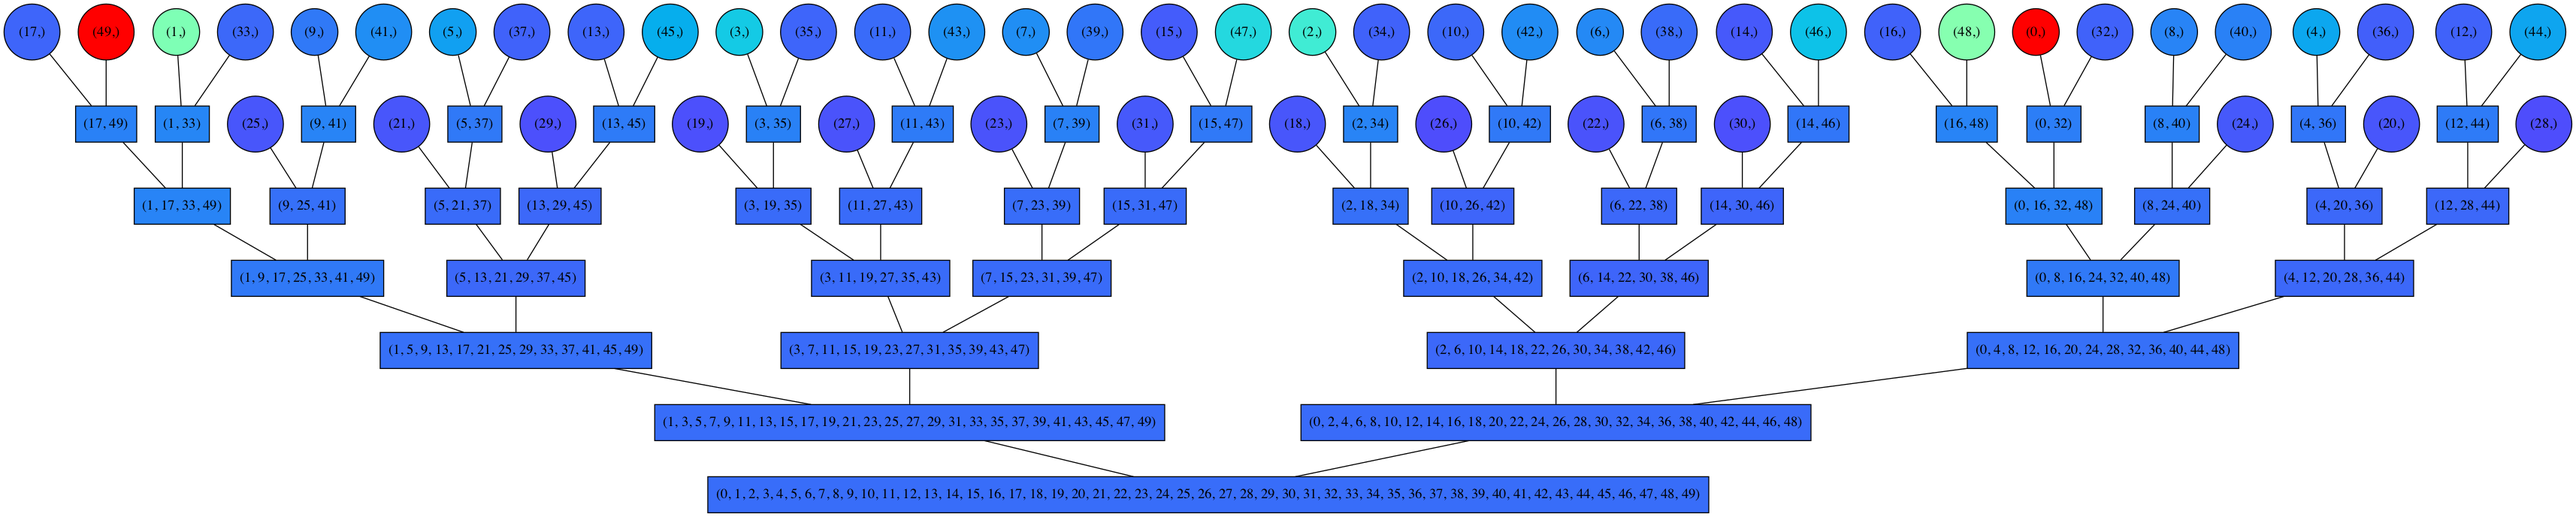
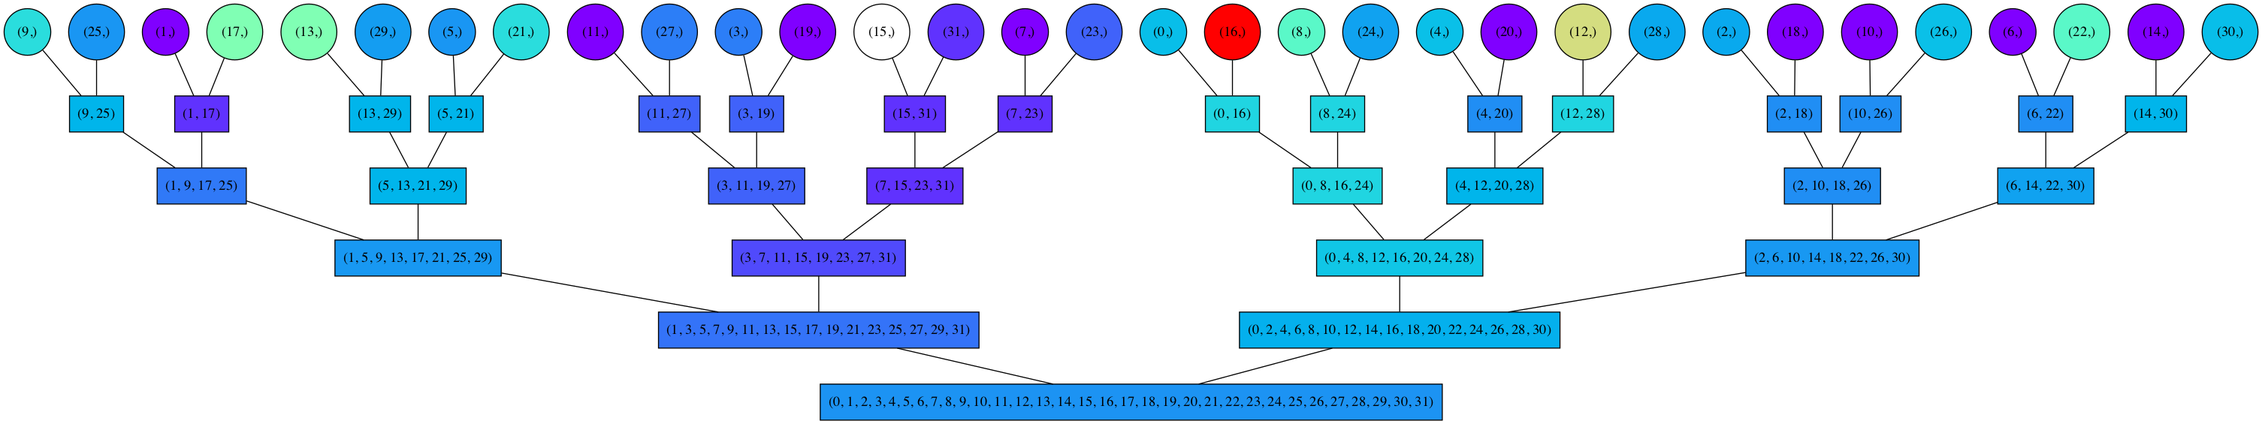
message

diff --git a/visualize_heuristic_output.py b/visualize_heuristic_output.py
@@ -1,10 +1,11 @@
-import static_opt_heuristics as h
+import static_opt_heuristics as hr
 import static_optimal_search as st
 import math, operator
 import colorsys
 import matplotlib.colors as colors
 import matplotlib.cm as cm
 import pydot
+import random
 """
 Processing demand graph/skip graphs to visualize their
 properties
@@ -61,6 +62,24 @@ def middleman_hop_frequencies(D, SG):
     return freqs
 
 
+def epl_contribution_freqs(D, SG):
+    """
+    given a  skip graph (tupled) on n nodes,
+    returns a dict f where f[k] is the expected path length for all paths
+    that start at k or end at k.
+    """
+    d = D.copy()
+    #really_safe_normalise_in_place(d)
+
+    nodes = st.SG_nodes(SG)
+    freqs = {n : 0 for n in nodes}
+    for u in nodes:
+        for v in nodes:
+            cost = st.SG_search_cost(SG, u, v)*d[(u,v)]
+            freqs[u] += cost
+    return freqs
+
+
 
 def colormap(val, cmap = cm.rainbow):
     """
@@ -70,24 +89,100 @@ def colormap(val, cmap = cm.rainbow):
     r,g,b = cmap(val)[:3]
     return colors.rgb2hex((r,g,b))
 
-def color_for_LL(LL, fmap, lmap):
+def color_for_LL_fmap(LL, fmap, lmap):
     """
     LL : a tuple of skip graph nodes (as in tupled SG)
-    fmap : middleman hop frequences for skip graph
-    lmap : middleman hop frequencies for path graph (ground)
+    fmap : frequences for skip graph
+    lmap : frequencies for path graph (ground)
 
-    returns color for the LL
+    returns color for the LL based on fmaps
     """
     fp = {k:fmap[k] for k in fmap if k in LL}
     lp = {k:lmap[k] for k in fmap if k in LL}
     val = sum(fp.values())/sum(lp.values())
     return colormap(val)
 
+def height_for_LL(LL, fmap, lmap, constant = 1.5):
+    """
+    same as color_for_LL, except returns the height for the LL
+    """
+    fp = {k:fmap[k] for k in fmap if k in LL}
+    lp = {k:lmap[k] for k in fmap if k in LL}
+    if sum(lp.values()) == 0:
+        return constant
+    else:
+        val = sum(fp.values())/sum(lp.values())
+    return val*constant
 
-def viz_middlemancolors_tupled_SG(SG, D, path):
+def color_for_LL_node_specific(u, LL, SG, D):
+    """
+    u : a specific node in SG
+    LL : a tuple of skip graph nodes (as in tupled SG)
+    SG : the skip graph that contains LL
+    D : demand graph
+    returns a color for the LL based on the expected path length of of all paths
+    from u to nodes in the LL
+    """
+    if len(LL) == 1 and u in LL:
+        return "white"
+    cost = 0
+    linecost = 0
+    for v in LL:
+        cost += st.SG_search_cost(SG,u,v)*D[(u,v)]
+        linecost += abs(u - v)
+
+    if linecost == 0:
+        return colormap(0)
+    return colormap(cost/linecost)
+
+
+
+def viz_colors_tupled_SG(SG, path, colorfunc = None):
     """
     visualizes skip graph in prefix-tree format,
-    where each LL of the prefix tree is colored based on
+    where each LL of the prefix tree is colored based on colorfunc.
+    colorfunc is a function colorfunc(LL) where LL is a linked list,
+    It outputs a color.
+
+    path = filepath to output image to e.g. "fig.png"
+    """
+    SG = list(SG)
+    SG.sort(key = len)
+    SG.reverse()
+
+    graph = pydot.Dot(rankdir = "TB", fontsize = "15")
+    # SG[0] should be level 0
+    covered = []
+    for u in SG[0]:
+        SL = st.SL_restriction(SG, u)
+        curr = SL[0]
+        for lev in SL[1:]:
+            if len(curr) == 1:
+                shape = "circle"
+            else:
+                shape = "box"
+            node1 = pydot.Node(str(curr), shape = shape, style = "filled", fillcolor = colorfunc(curr))
+            if len(lev) == 1:
+                shape = "circle"
+            else:
+                shape = "box"
+            node2 = pydot.Node(str(lev), shape = shape, style = "filled", fillcolor = colorfunc(lev))
+            edge = pydot.Edge(node1, node2, arrowhead = "None")
+
+            if set([curr, lev]) not in covered:
+                graph.add_node(node1)
+                graph.add_node(node2)
+                graph.add_edge(edge)
+                covered.append(set([curr, lev]))
+            curr = lev
+    graph.write_png(path)
+    return graph
+
+
+def viz_middlemansize_tupled_SG(SG, D, path):
+    """
+    visualizes skip graph in prefix-tree format,
+    where each LL of the prefix tree is sized based on
     the sum(values_in_LL(f, LL))/sum(values_in_LL(l, LL)) where f is
     the middleman_hop_frequencies of SG, D and l is the
     grounded_middleman_hop_frequencies of D (on the line graph)
@@ -107,17 +202,15 @@ def viz_middlemancolors_tupled_SG(SG, D, path):
     for u in SG[0]:
         SL = st.SL_restriction(SG, u)
         curr = SL[0]
+        shape = "circle"
         for lev in SL[1:]:
-            if len(curr) == 1:
-                shape = "circle"
-            else:
-                shape = "box"
-            node1 = pydot.Node(str(curr), shape = shape, style = "filled", fillcolor = color_for_LL(curr, f, l))
-            if len(lev) == 1:
-                shape = "circle"
-            else:
-                shape = "box"
-            node2 = pydot.Node(str(lev), shape = shape, style = "filled", fillcolor = color_for_LL(lev, f, l))
+            colorc, colorl = "black", "black"
+            if len(curr) != 1:
+                colorc = "white"
+            if len(lev) != 1:
+                colorl = "white"
+            node1 = pydot.Node(str(curr), shape = shape, fixedsize = "shape", height = height_for_LL(curr, f, l), width = height_for_LL(curr), fontcolor = colorc)
+            node2 = pydot.Node(str(lev), shape = shape, fixedsize = "shape", height = height_for_LL(lev, f, l), width = height_for_LL(lev), fontcolor = colorl)
             edge = pydot.Edge(node1, node2, arrowhead = "None")
 
             if set([curr, lev]) not in covered:
@@ -130,33 +223,44 @@ def viz_middlemancolors_tupled_SG(SG, D, path):
     return graph
 
 
+
 if __name__ == "__main__":
-    n = 50
-    D = st.g.random_demand_dict(n, range = 30)
+    n = 32
+    D = st.g.random_demand_dict(n)
+
+    keys = list(range(n))
+    random.shuffle(keys)
+    idxs = [0] + sorted(random.sample(keys, k = 3)) + [len(keys)]
+    clusters = []
+    for i in range(len(idxs) - 1):
+        clusters.append(keys[idxs[i]:idxs[i+1]])
+    print(clusters)
+    D = st.g.n_cluster_demand_dict(n, clusters)
 
     randSG = st.random_tupled_SG(n)
-    f = middleman_hop_frequencies(D, randSG)
-    l = grounded_middleman_hop_frequencies(D)
+    f = epl_contribution_freqs(D, randSG)
+    l = epl_contribution_freqs(D, st.path_tupled_SG(n))
 
     SG = st.interleaved_tupled_SG(n)
-    s = middleman_hop_frequencies(D, SG)
+    s = epl_contribution_freqs(D, SG)
 
-    heurSG = h.greedy_matching_heuristic(D, list(range(n)))
-    h = middleman_hop_frequencies(D, heurSG)
+    heurSG = hr.greedy_edge_picking_heuristic(D, list(range(n)))
+    h = epl_contribution_freqs(D, heurSG)
 
     SP = st.spine_tupled_SG(n)
+
 
     # rand = {i : f[i]/l[i] for i in f}
     # interleaved = {i : s[i]/l[i] for i in s}
     # heuristic = {i : h[i]/l[i] for i in h}
 
-    viz_middlemancolors_tupled_SG(heurSG, D, "before.png")
-    viz_middlemancolors_tupled_SG(randSG, D, "after.png")
-    viz_middlemancolors_tupled_SG(SG, D, "after1.png")
+    u = 15
+    viz_colors_tupled_SG(heurSG, "before.png", lambda LL : color_for_LL_node_specific(u, LL, heurSG, D))
+    viz_colors_tupled_SG(randSG, "after.png", lambda LL : color_for_LL_node_specific(u, LL, randSG, D))
+    viz_colors_tupled_SG(SG, "after1.png", lambda LL : color_for_LL_node_specific(u, LL, SG, D))
     path = st.path_tupled_SG(n)
     print(st.epl_SG(randSG, D), st.epl_SG(heurSG, D), st.epl_SG(SG, D), st.epl_SG(path, D))
     # sum of freqs.values() is equal to weighted path length
-
 
 
 

diff --git a/static_optimal_search.py b/static_optimal_search.py
@@ -374,6 +374,11 @@ def random_tupled_SG(n):
     SG = (tuple(x) for x in SG)
     return tuple(SG)
 
+
+
+
+    
+
 def partition_increment_cost(D, partition, complement):
     SG = (partition, complement, tuple(sorted(partition + complement)))
     s = 0
